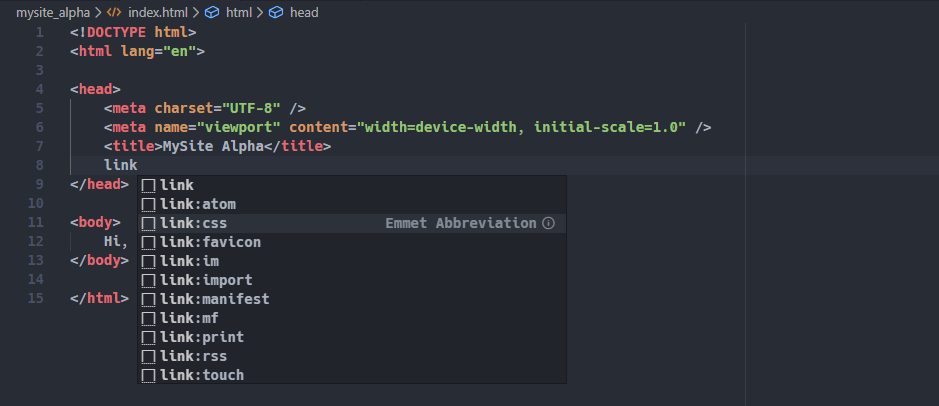
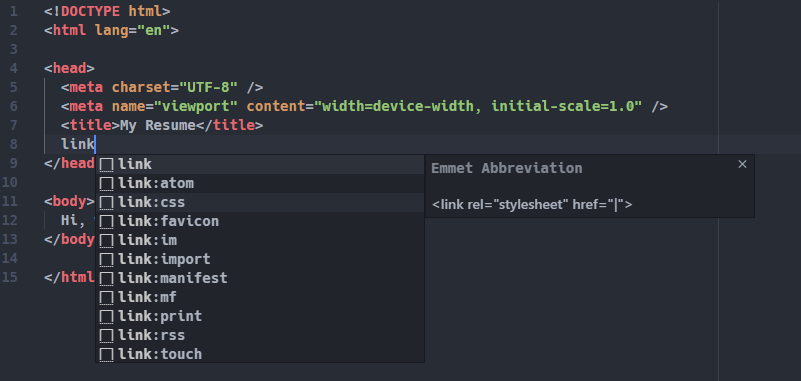
start blog / update lesson 1 of intro course

diff --git a/topics/HTML and CSS/Getting Started With HTML and CSS/Lessons/Lesson 01/src/index.html b/topics/HTML and CSS/Getting Started With HTML and CSS/Lessons/Lesson 01/src/index.html
@@ -1,0 +1,15 @@
+<!DOCTYPE html>
+<html lang="en">
+
+<head>
+  <meta charset="UTF-8" />
+  <meta name="viewport" content="width=device-width, initial-scale=1.0" />
+  <title>My Resume</title>
+  <link rel="stylesheet" href="style.css" />
+</head>
+
+<body>
+  Hi, welcome to my site.
+</body>
+
+</html>

diff --git a/topics/HTML and CSS/Getting Started With HTML and CSS/Lessons/Lesson 01/src/style.css b/topics/HTML and CSS/Getting Started With HTML and CSS/Lessons/Lesson 01/src/style.css
@@ -1,0 +1,5 @@
+body {
+  color: yellow;
+  background-color: red;
+  font-size: 50px;
+}

diff --git a/topics/HTML and CSS/Getting Started With HTML and CSS/Blog/blog.md b/topics/HTML and CSS/Getting Started With HTML and CSS/Blog/blog.md
@@ -1,0 +1,29 @@
+# Starting From Zero - How To Begin Your Journey Towards Becoming A Software Developer
+
+In the summer of 2016, I wrote my first line of code.
+In the summer of 2017, I was hired by one of the biggest software companies in the UK as a mid-level developer.
+
+Now, I'm not saying it was easy, just demonstrating that it's possible.
+
+So, looking back, this is the path I took and the things that I believe helped me to land that first job.
+
+## Learning to Code
+
+This is how I divide up my experience of 'learning to code' (quotation marks very intentional there...)
+
+*Stage 1 - Everything is hard! I have no idea what I'm doing! I think I'm making progress but I'm confused all the time!*
+
+This confusion is a good thing. It means you're being pushed outside of your comfort zone. As long as you have a clear project to work on that allows you judge whether you are making some/any progress, then don't worry about the uncomfortable feeling you carry around all the time. I mean, it's literally called being 'outside of your comfort zone'.
+
+A key part here is having someone to go to when you get stuck. And you will get stuck. A lot. And the problem will almost certainly be a comma. Or a semi-colon. You will spend hours, convinced that you've written perfect code and that everything is unfair. And then you'll see it. Or, the person you go to for support will see it for you. So, whether it's a friend, a mentor at a code school, or whoever can fulfill that role, getting access to some outside assistance will help you through the dark(er) times.
+
+*Stage 2*
+
+- Learn by doing. Don't worry about theory. Unless you find it interesting.
+- CS is not all that.
+- Portfolio!
+
+- Use good tooling to help you. Prettier, Eslint.
+- Google!
+- Make projects that are bite sized to help you learn things. Don't think you have to study first before making stuff.
+

diff --git a/topics/HTML and CSS/Getting Started With HTML and CSS/Lessons/Lesson 01/lesson.md b/topics/HTML and CSS/Getting Started With HTML and CSS/Lessons/Lesson 01/lesson.md
@@ -25,7 +25,7 @@ Things to remember:
 - Create a folder (on your Desktop is probably the easiest place to put it) called `myResume`
 - Open `myResume` in VSCode
 - Create a file called index.html
-- Type `html` and you'll see a magic box appear. Select the option `html:5`
+- Inside that file, type `html` and you'll see a magic box appear. Select the option `html:5`
   ![HTML Emmet](./images/htmlEmmet.png "HTML Emmet")
 - Your code should now look like this:
 
@@ -66,7 +66,6 @@ If not, just copy and paste this into the file.
   ![welcome](./images/welcome.png "Hi, welcome to my site.")
 - Okay, that's not VERY exciting...
 - Notice that tab title matches your HTML title <br/>
-  ![tabTitle](./images/tabTitle.png "Tab Title")
 
 ## Now to add some styles
 
@@ -80,7 +79,7 @@ If not, just copy and paste this into the file.
   <head>
     <meta charset="UTF-8" />
     <meta name="viewport" content="width=device-width, initial-scale=1.0" />
-    <title>MySite Alpha</title>
+    <title>My Resume</title>
     <link rel="stylesheet" href="style.css" />
   </head>
   <body>
